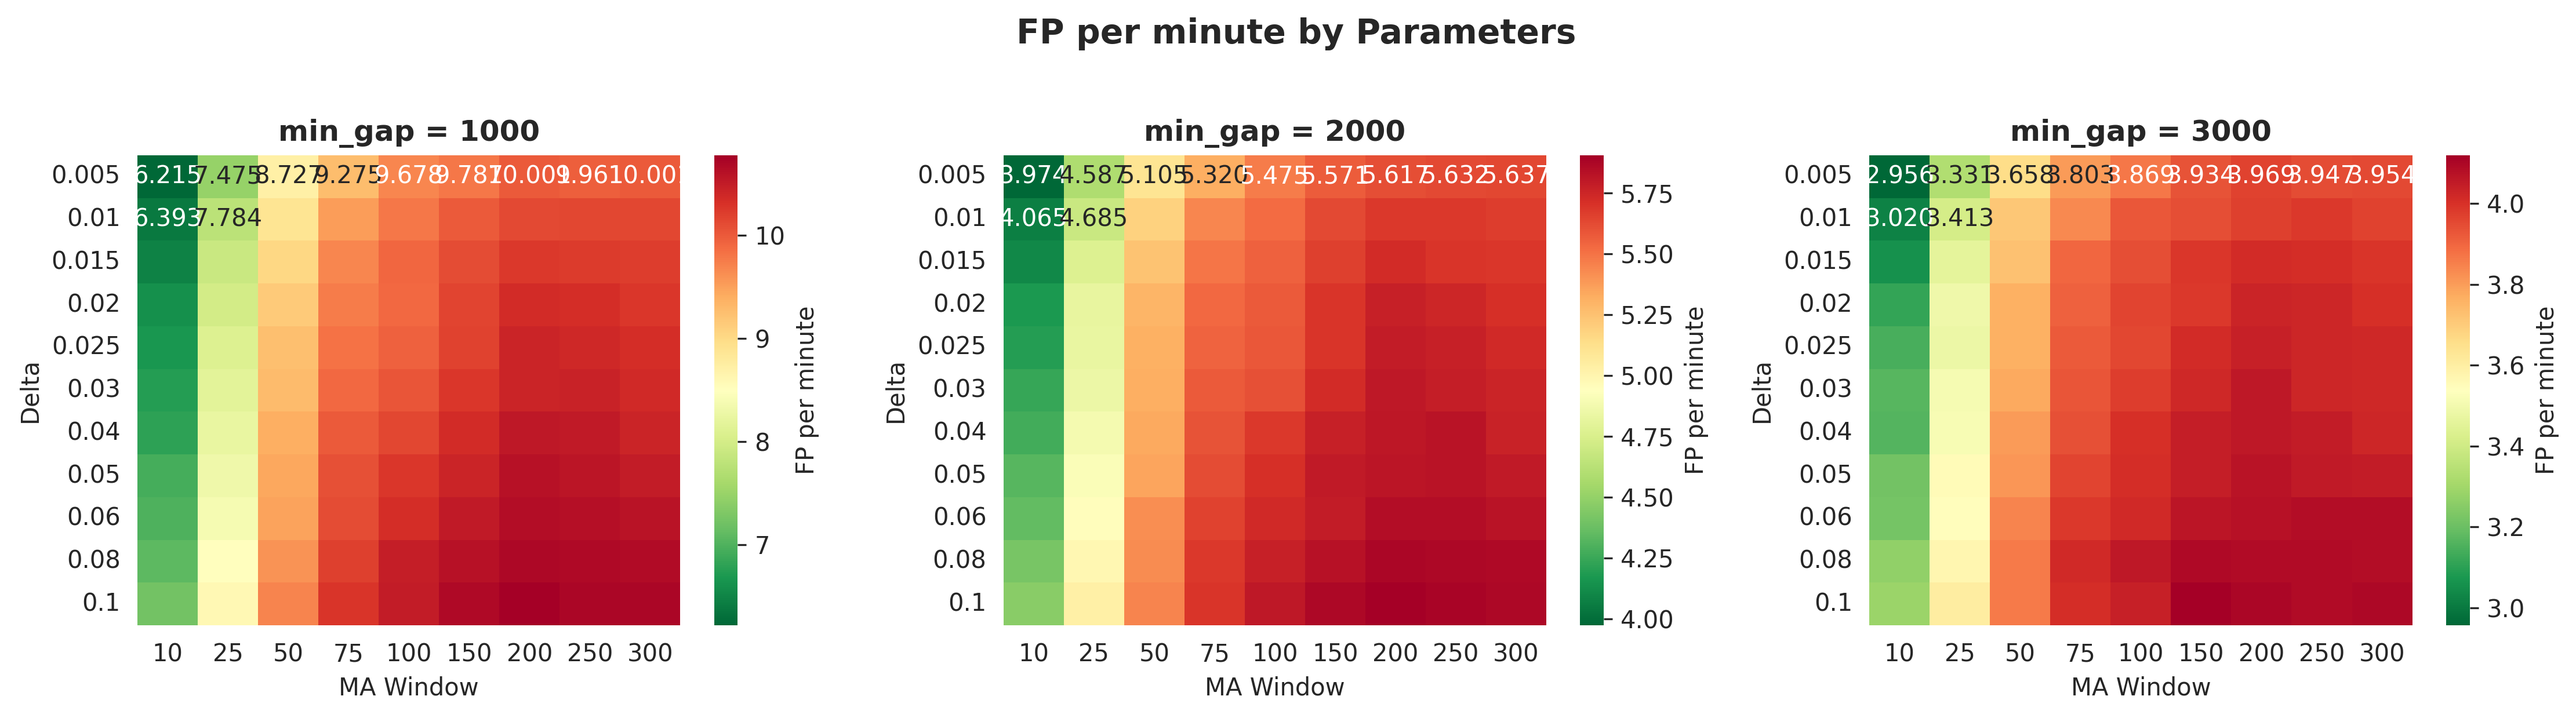
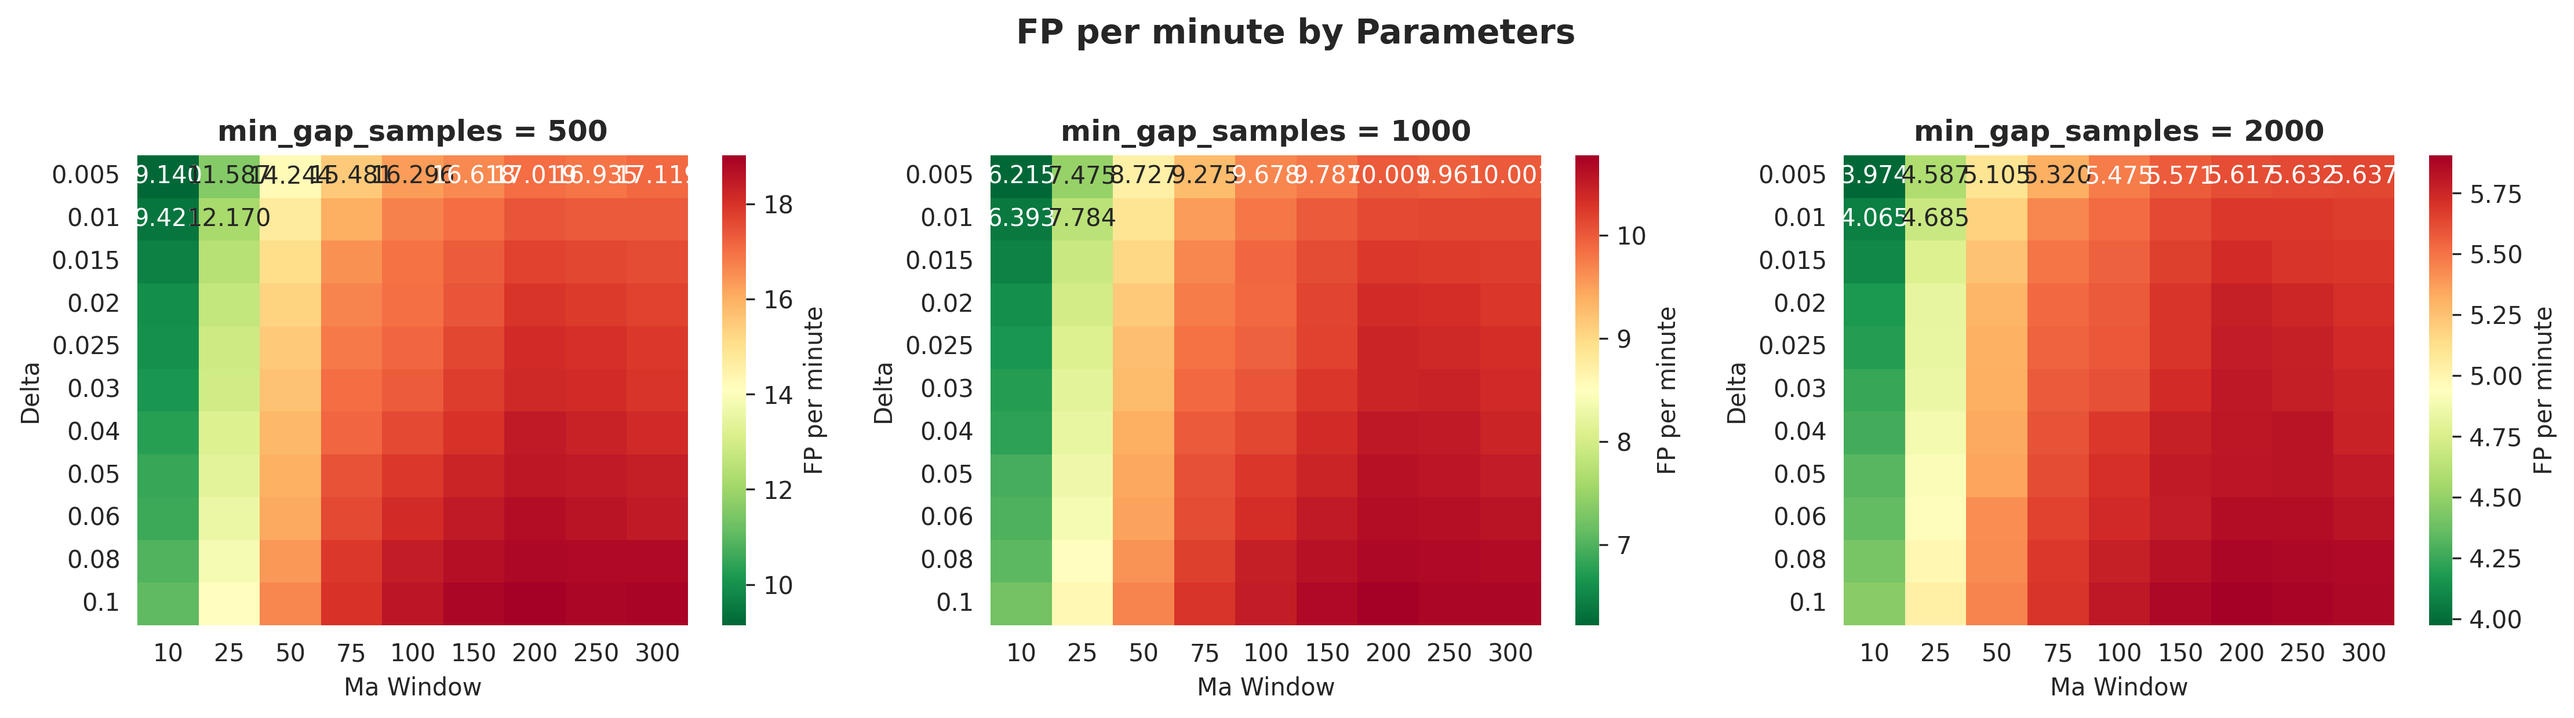
first commit with all visualizations

diff --git a/src/visualize_results.py b/src/visualize_results.py
@@ -24,8 +24,33 @@ def load_metrics(metrics_path):
     """Load metrics CSV and aggregate by parameters."""
     df = pd.read_csv(metrics_path)
 
-    # Aggregate by parameter combinations
-    param_cols = ['delta', 'ma_window', 'min_gap_samples']
+    # Auto-detect parameter columns (detector-specific)
+    # Common parameter patterns: delta, lambda_, alpha, ma_window, min_gap_samples,
+    # drift_confidence, warning_confidence, etc.
+    all_cols = df.columns.tolist()
+
+    # Known metric/metadata columns to exclude
+    exclude_patterns = [
+        'file_id', 'f1_', 'f3_', 'precision', 'recall', 'edd_', 'fp_per_min',
+        'nab_score', 'tp', 'fp', 'fn', 'n_detections', 'n_gt_events'
+    ]
+
+    param_cols = []
+    for col in all_cols:
+        if any(pattern in col for pattern in exclude_patterns):
+            continue
+        # Include if it looks like a parameter (not a metric)
+        if col in ['delta', 'lambda_', 'alpha', 'ma_window', 'min_gap_samples',
+                   'drift_confidence', 'warning_confidence', 'two_side_option',
+                   'lambda_option', 'ks_alpha', 'window_size', 'stat_size',
+                   'min_instances', 'warning_level', 'out_control_level',
+                   'use_derivative']:
+            param_cols.append(col)
+
+    if not param_cols:
+        raise ValueError(f"No parameter columns detected in {metrics_path}")
+
+    print(f"Detected parameters: {param_cols}")
 
     # Define metrics to aggregate
     metric_cols = [
@@ -57,8 +82,22 @@ def load_metrics(metrics_path):
 def plot_pr_scatter(df, output_dir):
     """
     Precision-Recall scatter plot with multiple temporal thresholds.
-    Each point is a parameter combination, colored by F3-weighted score.
+    Each point is a parameter combination, colored by delta or ma_window.
     """
+    # Select color variable: min_gap_samples if available, else ma_window, else delta
+    if 'min_gap_samples' in df.columns:
+        color_var = 'min_gap_samples'
+        color_label = 'Min Gap (samples)'
+    elif 'ma_window' in df.columns:
+        color_var = 'ma_window'
+        color_label = 'MA Window'
+    elif 'delta' in df.columns:
+        color_var = 'delta'
+        color_label = 'Delta'
+    else:
+        color_var = 'f3_weighted_mean'
+        color_label = 'F3-weighted Score'
+
     fig, axes = plt.subplots(1, 2, figsize=(14, 6))
 
     # Plot 1: Recall@4s vs Precision@4s
@@ -66,7 +105,7 @@ def plot_pr_scatter(df, output_dir):
     scatter1 = ax1.scatter(
         df['recall_4s_mean'],
         df['precision_4s_mean'],
-        c=df['f3_weighted_mean'],
+        c=df[color_var],
         s=50,
         alpha=0.6,
         cmap='viridis',
@@ -78,7 +117,7 @@ def plot_pr_scatter(df, output_dir):
     ax1.set_title('Precision-Recall Trade-off (4s window)', fontsize=14, fontweight='bold')
     ax1.grid(True, alpha=0.3)
     cbar1 = plt.colorbar(scatter1, ax=ax1)
-    cbar1.set_label('F3-weighted Score', fontsize=10)
+    cbar1.set_label(color_label, fontsize=10)
 
     # Add best point
     best_idx = df['f3_weighted_mean'].idxmax()
@@ -100,7 +139,7 @@ def plot_pr_scatter(df, output_dir):
     scatter2 = ax2.scatter(
         df['recall_10s_mean'],
         df['precision_10s_mean'],
-        c=df['f3_weighted_mean'],
+        c=df[color_var],
         s=50,
         alpha=0.6,
         cmap='viridis',
@@ -112,7 +151,7 @@ def plot_pr_scatter(df, output_dir):
     ax2.set_title('Precision-Recall Trade-off (10s window)', fontsize=14, fontweight='bold')
     ax2.grid(True, alpha=0.3)
     cbar2 = plt.colorbar(scatter2, ax=ax2)
-    cbar2.set_label('F3-weighted Score', fontsize=10)
+    cbar2.set_label(color_label, fontsize=10)
 
     # Add best point
     ax2.scatter(
@@ -227,10 +266,35 @@ def plot_pareto_front(df, output_dir):
 def plot_parameter_heatmaps(df, output_dir):
     """
     Heatmaps showing how parameters affect different metrics.
-    Creates multiple panels for different min_gap values.
+    Creates heatmaps based on available parameters.
     """
-    # Get unique min_gap values (take top 3 most common)
-    top_gaps = df['min_gap_samples'].value_counts().head(3).index.sort_values()
+    # Identify parameter columns
+    param_cols = [col for col in df.columns if col.replace('_mean', '').replace('_std', '') in
+                  ['delta', 'lambda_', 'alpha', 'ma_window', 'min_gap_samples',
+                   'drift_confidence', 'warning_confidence', 'ks_alpha', 'window_size']]
+
+    # Filter to just the base parameter names (without _mean/_std)
+    param_cols = [col for col in param_cols if not col.endswith('_mean') and not col.endswith('_std')]
+
+    if len(param_cols) < 2:
+        print(f"Warning: Need at least 2 parameters for heatmaps, found {len(param_cols)}. Skipping heatmaps.")
+        return
+
+    # Try to find a grouping parameter (prefer min_gap_samples, then others)
+    group_param = None
+    if 'min_gap_samples' in param_cols:
+        group_param = 'min_gap_samples'
+    elif len(param_cols) > 2:
+        # Use the parameter with fewest unique values for grouping
+        group_param = min(param_cols, key=lambda p: df[p].nunique())
+
+    # Get top values for grouping parameter
+    if group_param:
+        top_gaps = df[group_param].value_counts().head(3).index.sort_values()
+        heatmap_params = [p for p in param_cols if p != group_param][:2]  # Use first 2 remaining
+    else:
+        top_gaps = [None]  # No grouping, single heatmap
+        heatmap_params = param_cols[:2]
 
     metrics = [
         ('f3_weighted_mean', 'F3-Weighted Score'),
@@ -248,15 +312,23 @@ def plot_parameter_heatmaps(df, output_dir):
             axes = [axes]
 
         for idx, gap in enumerate(top_gaps):
-            subset = df[df['min_gap_samples'] == gap]
+            if gap is not None:
+                subset = df[df[group_param] == gap]
+                title_suffix = f'{group_param} = {gap}'
+            else:
+                subset = df
+                title_suffix = ''
 
-            # Pivot for heatmap
-            pivot = subset.pivot_table(
-                values=metric_col,
-                index='delta',
-                columns='ma_window',
-                aggfunc='mean'
-            )
+            # Pivot for heatmap using detected parameters
+            if len(heatmap_params) >= 2:
+                pivot = subset.pivot_table(
+                    values=metric_col,
+                    index=heatmap_params[0],
+                    columns=heatmap_params[1],
+                    aggfunc='mean'
+                )
+            else:
+                continue  # Skip if not enough parameters
 
             ax = axes[idx]
             sns.heatmap(
@@ -267,9 +339,9 @@ def plot_parameter_heatmaps(df, output_dir):
                 ax=ax,
                 cbar_kws={'label': metric_name}
             )
-            ax.set_title(f'min_gap = {int(gap)}', fontsize=12, fontweight='bold')
-            ax.set_xlabel('MA Window', fontsize=10)
-            ax.set_ylabel('Delta', fontsize=10)
+            ax.set_title(title_suffix, fontsize=12, fontweight='bold')
+            ax.set_xlabel(heatmap_params[1].replace('_', ' ').title(), fontsize=10)
+            ax.set_ylabel(heatmap_params[0].replace('_', ' ').title(), fontsize=10)
 
         plt.suptitle(f'{metric_name} by Parameters', fontsize=14, fontweight='bold', y=1.02)
         plt.tight_layout()
@@ -401,17 +473,41 @@ def plot_parameter_sensitivity(df, output_dir):
     """
     Line plots showing how each parameter affects key metrics.
     """
-    fig, axes = plt.subplots(2, 3, figsize=(16, 10))
+    # Auto-detect parameters
+    param_cols = [col for col in df.columns if col in
+                  ['delta', 'lambda_', 'alpha', 'ma_window', 'min_gap_samples',
+                   'drift_confidence', 'warning_confidence', 'ks_alpha', 'window_size',
+                   'stat_size', 'lambda_option']]
 
-    params = ['delta', 'ma_window', 'min_gap_samples']
+    if not param_cols:
+        print("Warning: No parameters found for sensitivity analysis. Skipping.")
+        return
+
+    # Limit to 6 parameters max (2 rows × 3 cols)
+    params = param_cols[:6]
+    n_params = len(params)
+    n_cols = min(3, n_params)
+    n_rows = (n_params + n_cols - 1) // n_cols
+
+    fig, axes = plt.subplots(n_rows, n_cols, figsize=(5.5 * n_cols, 5 * n_rows))
+    if n_rows == 1 and n_cols == 1:
+        axes = np.array([[axes]])
+    elif n_rows == 1 or n_cols == 1:
+        axes = axes.reshape(n_rows, n_cols)
     metrics = [
         ('f3_weighted_mean', 'F3-Weighted'),
         ('recall_10s_mean', 'Recall @ 10s')
     ]
 
-    for row_idx, (metric_col, metric_name) in enumerate(metrics):
-        for col_idx, param in enumerate(params):
+    plot_idx = 0
+    for metric_col, metric_name in metrics:
+        for param in params:
+            if plot_idx >= n_rows * n_cols:
+                break
+            row_idx = plot_idx // n_cols
+            col_idx = plot_idx % n_cols
             ax = axes[row_idx, col_idx]
+            plot_idx += 1
 
             # Group by parameter and calculate mean/std
             grouped = df.groupby(param)[metric_col].agg(['mean', 'std']).reset_index()
@@ -424,14 +520,21 @@ def plot_parameter_sensitivity(df, output_dir):
                 alpha=0.3
             )
 
-            ax.set_xlabel(param.replace('_', ' ').title(), fontsize=10)
+            param_label = param.replace('_', ' ').title()
+            ax.set_xlabel(param_label, fontsize=10)
             ax.set_ylabel(metric_name, fontsize=10)
-            ax.set_title(f'{metric_name} vs {param.replace("_", " ").title()}', fontsize=11, fontweight='bold')
+            ax.set_title(f'{metric_name} vs {param_label}', fontsize=11, fontweight='bold')
             ax.grid(True, alpha=0.3)
 
-            # Log scale for ma_window if applicable
-            if param == 'ma_window':
+            # Log scale for certain parameters
+            if param in ['ma_window', 'window_size', 'stat_size']:
                 ax.set_xscale('log')
+
+    # Hide unused subplots
+    for idx in range(plot_idx, n_rows * n_cols):
+        row_idx = idx // n_cols
+        col_idx = idx % n_cols
+        axes[row_idx, col_idx].set_visible(False)
 
     plt.tight_layout()
     output_path = output_dir / 'parameter_sensitivity.png'
